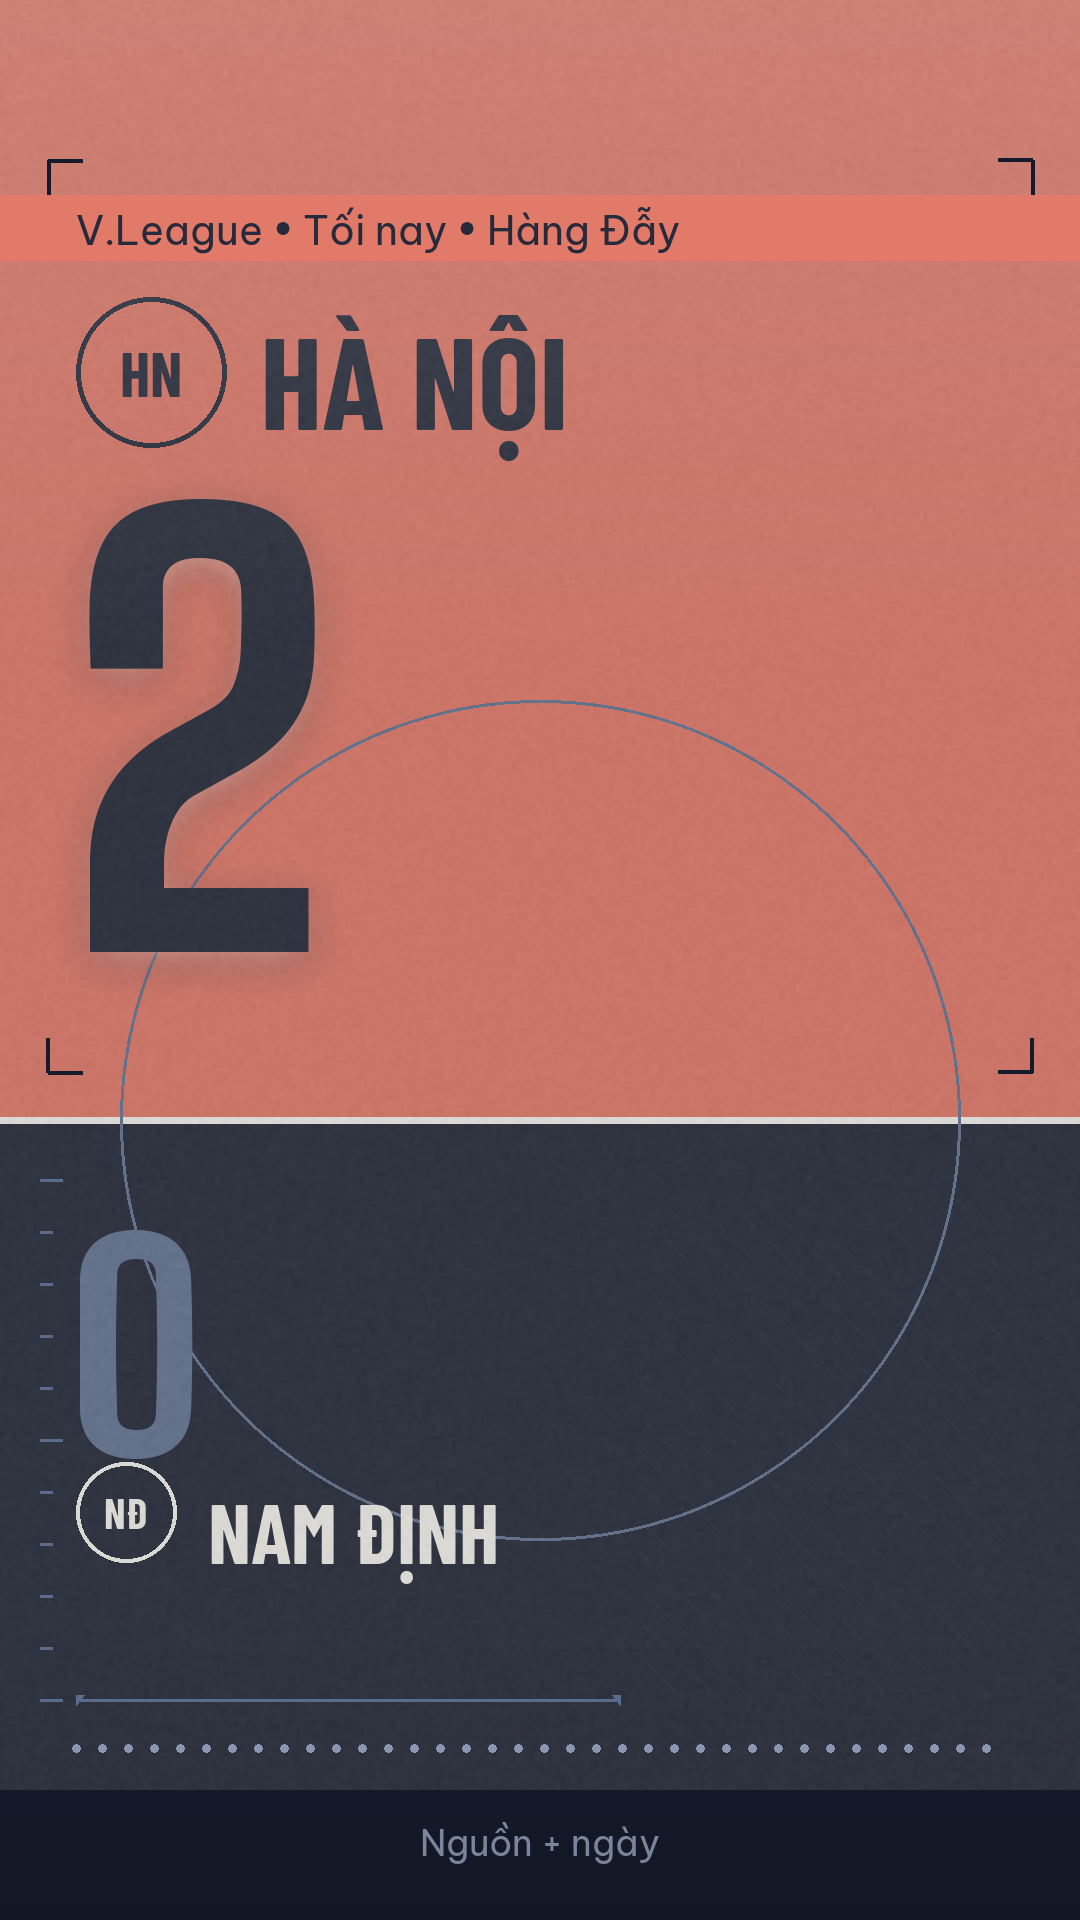
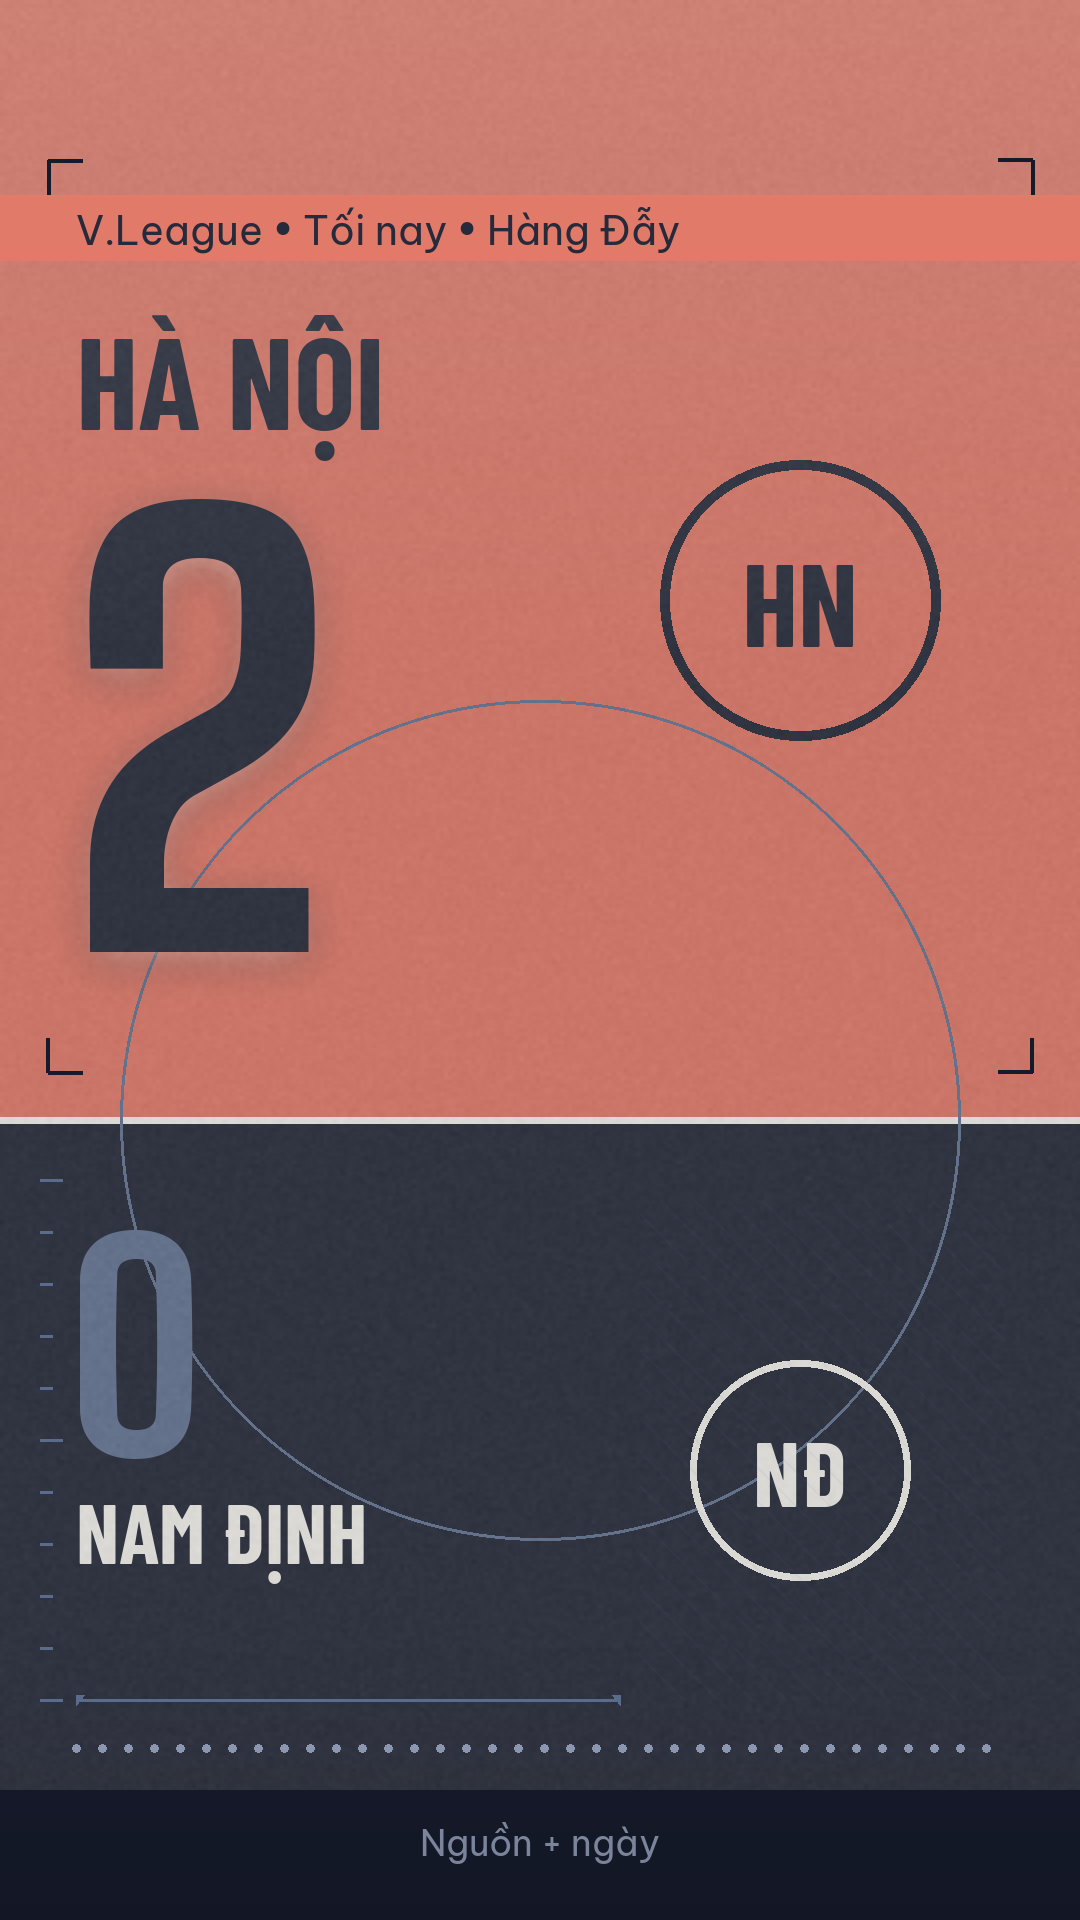
feat(design): badges move to right void beside scores
- Winner/loser monogram rings relocate from name-left to the large right void (d280/d220), balancing the split layout per owner call
- Ring pixels locked by tests; prototype spec updated
- Full suite 287 passed

diff --git a/apps/studio_templates/redesign_mr02_skill.py b/apps/studio_templates/redesign_mr02_skill.py
@@ -145,13 +145,13 @@ def render_redesign(home: str, away: str, score: str, comp: str, when: str,
               fill=pal["context_win"] if draw_win else pal["context_draw"])
     # Winner: monumental numeral.
     winner_type = pal["winner_type"] if draw_win else pal["draw_type"]
-    name_x = MARGIN + 184
-    badge(draw, MARGIN + 75, 372, 150, winner_type,
-          winner_type, initials(top_name))
-    draw.text((name_x, 300), top_name, font=font_brand("display", 130),
+    draw.text((MARGIN, 300), top_name, font=font_brand("display", 130),
               fill=winner_type)
     if pal["winner_bar"] is not None:
-        draw.rectangle([name_x, 445, name_x + 220, 457], fill=pal["winner_bar"])
+        draw.rectangle([MARGIN, 445, MARGIN + 220, 457], fill=pal["winner_bar"])
+    # Badge slots in the right void beside the score (monogram rings;
+    # real crests stay banned, future library images reuse these slots).
+    badge(draw, 800, 600, 280, winner_type, winner_type, initials(top_name))
     if depth and draw_win:
         # Hero glow (broadcast-depth move 2): blurred paper copy behind the
         # numeral. Paper glow, never white bloom.
@@ -168,10 +168,9 @@ def render_redesign(home: str, away: str, score: str, comp: str, when: str,
     # Loser territory: dimmed numeral + name anchored together.
     draw.text((MARGIN - 8, SPLIT_Y + 60), str(bottom_goals), font=font_numeral(280),
               fill=pal["loser_numeral"])
-    loser_name_x = MARGIN + 132
-    badge(draw, MARGIN + 50, SPLIT_Y + 392, 100, pal["loser_name"],
+    badge(draw, 800, 1470, 220, pal["loser_name"],
           pal["loser_name"], initials(bottom_name))
-    draw.text((loser_name_x, SPLIT_Y + 360), bottom_name, font=font_brand("display", 84),
+    draw.text((MARGIN, SPLIT_Y + 360), bottom_name, font=font_brand("display", 84),
               fill=pal["loser_name"])
     draw.text((W // 2, 1820), "Nguồn + ngày", font=font_brand("body", 36),
               fill=pal["credit"], anchor="ma")

diff --git a/tests/test_design_skills.py b/tests/test_design_skills.py
@@ -151,6 +151,9 @@ def test_white_colorways_render_and_pass_contrast():
     assert white.size == green.size == (1080, 1920)
     assert white.getpixel((540, 100)) == (255, 255, 255)
     assert white.getpixel((540, 1500)) == (240, 120, 98)
+    # Badge rings sit in the right void beside the score.
+    assert white.getpixel((660, 600)) == (22, 27, 44)
+    assert white.getpixel((690, 1470)) == (22, 27, 44)
     assert green.getpixel((540, 100)) == (31, 122, 77)
     assert green.getpixel((540, 1900)) == (22, 27, 44)
     ink, paper = hex_rgb("#161B2C"), hex_rgb("#F4F2EC")

diff --git a/docs/design/mr02-prototype-lock.md b/docs/design/mr02-prototype-lock.md
@@ -26,9 +26,10 @@ lite depth + detailing) · script `apps/studio_templates/redesign_mr02_skill.py`
    coral cũ, ink/orange ≥4.5 đã khóa bằng test).
 2. Winner = ink monumental + orange bar/glow; loser = ink numeral/name
    trên orange, credit ink.
-3. Badge monogram (initials derived từ tên đội, ring + chữ cùng ink) trái
-   mỗi tên đội — giữ chỗ crest thật (đang cấm theo selection rules); binding
-   ảnh library sau này thay monogram không dời slot.
+3. Badge monogram (initials derived từ tên đội, ring + chữ cùng ink) trong
+   void PHẢI cạnh tỷ số (winner d280 @ (800,600), loser d220 @ (800,1470)) —
+   giữ chỗ crest thật (đang cấm theo selection rules); binding ảnh library
+   sau này thay monogram không dời slot.
 3. Context 1 dòng sentence-case slate; provenance mist y1820.
 4. Circle motif + corner marks + notched trim + perforation + ticks + pinstripes
    (detailing.py, non-data only) — liều lượng như proof.
